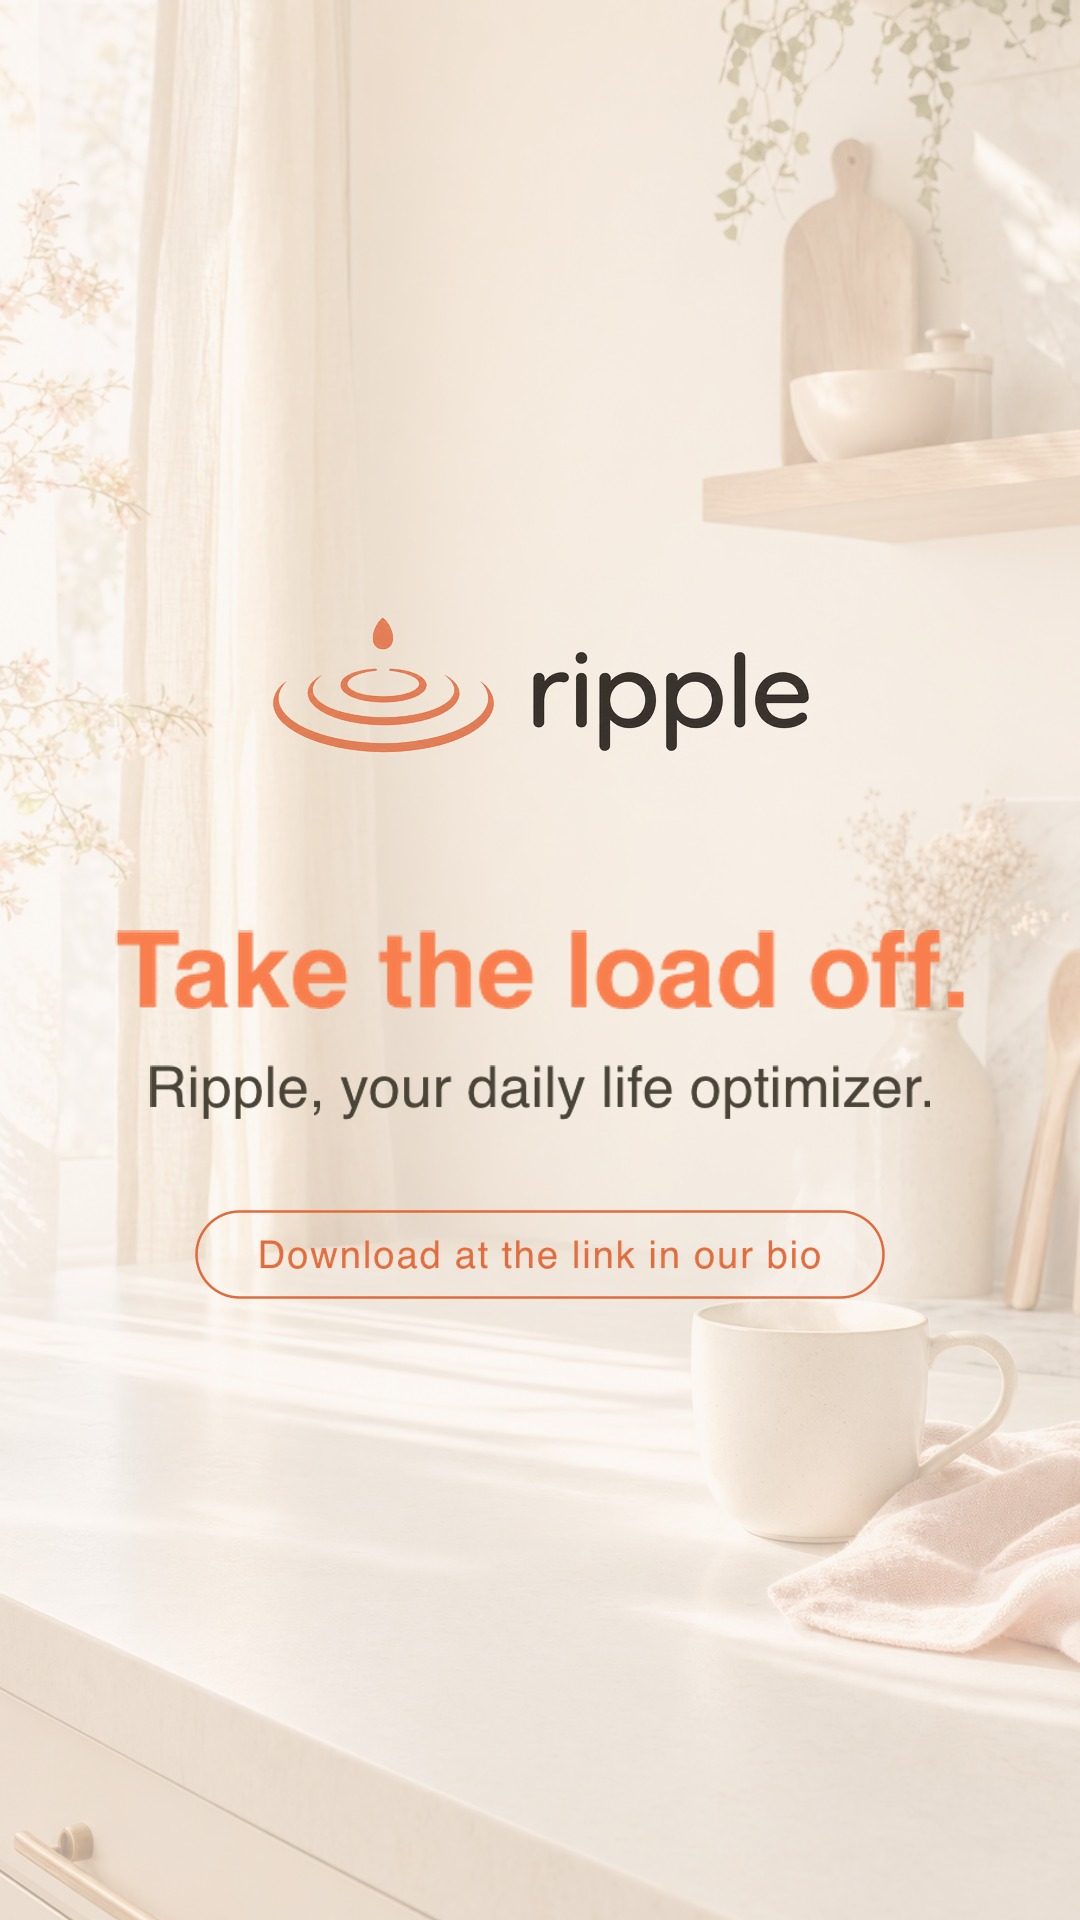
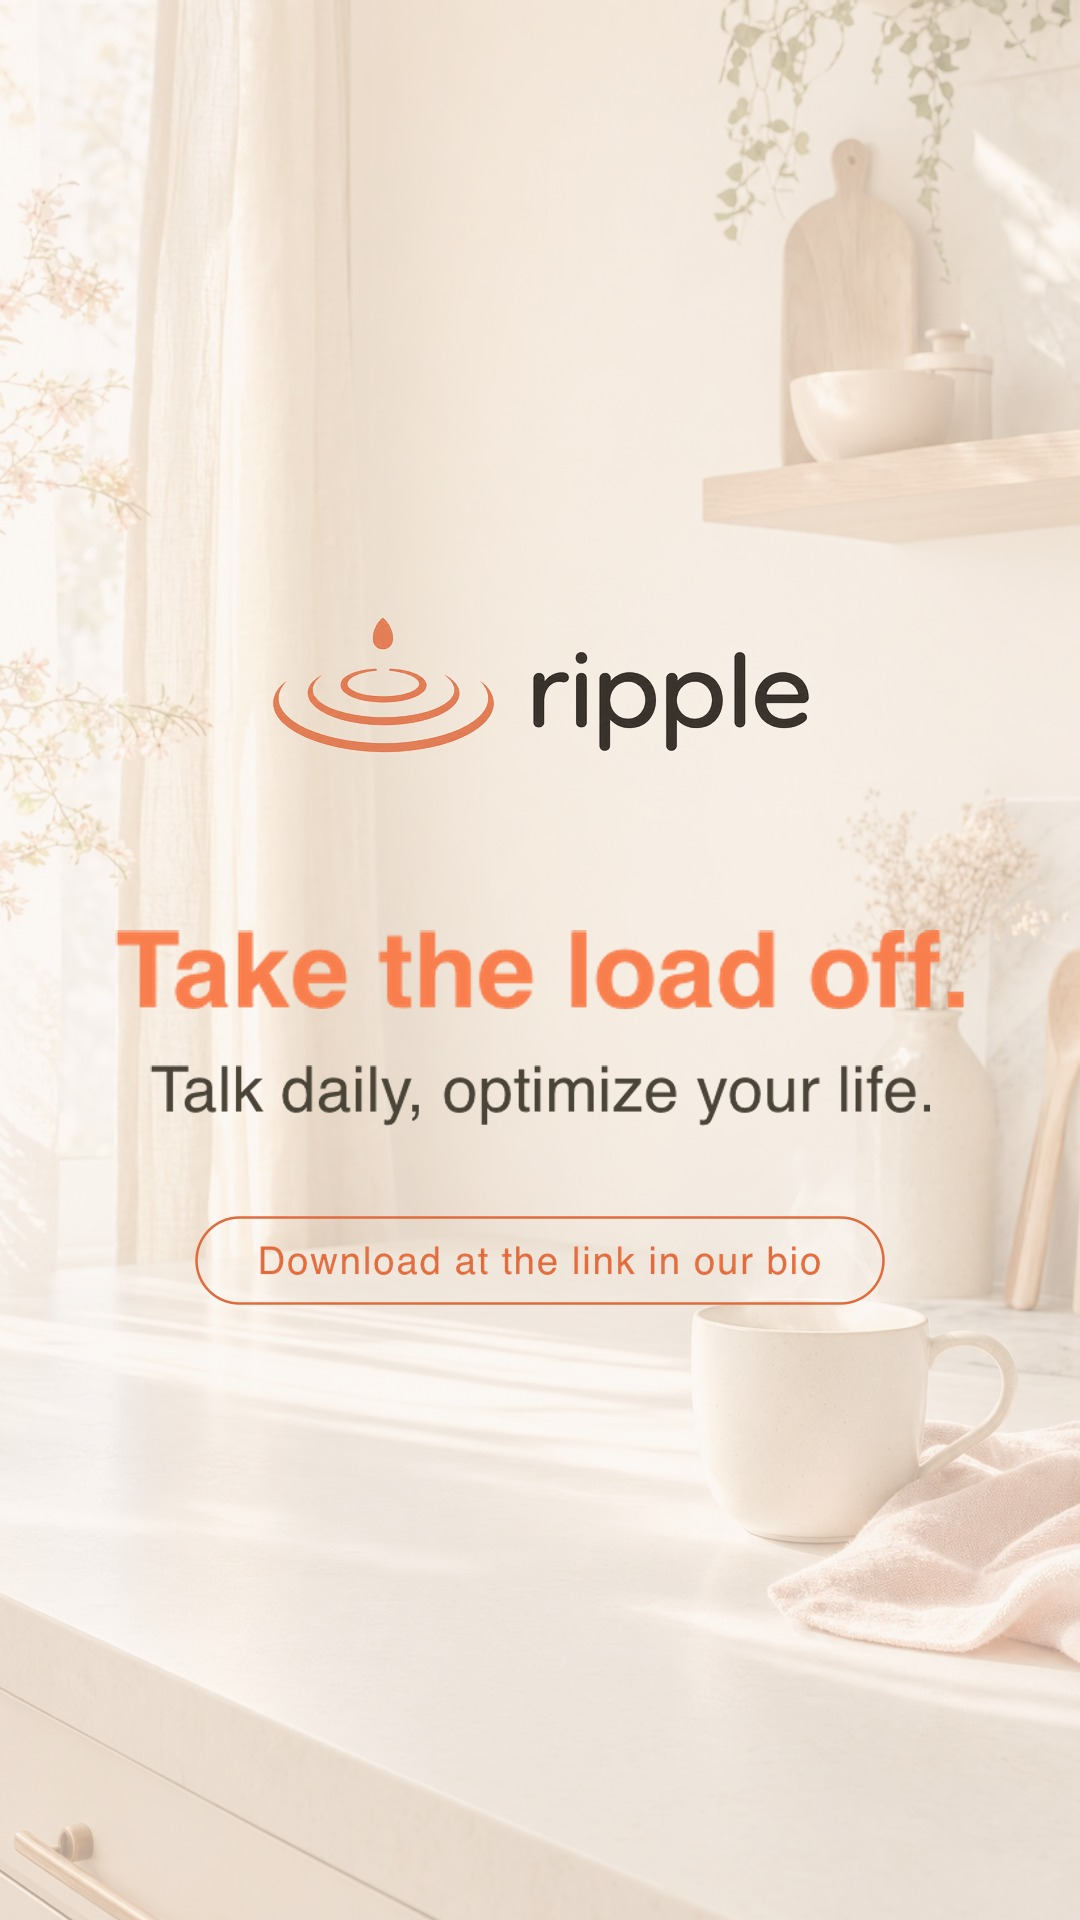
content: Update Ripple CTA slide subtext
Ripple slide subline is now "Talk daily, optimize your life." under "Take the load off." per Keenan.

- apps/web/scripts/make-cta-slides.ts
- apps/web/public/cta-slide-ripple.jpg regenerated

Changed region(s): [[0.1833, 0.625, 0.825, 0.6875], [0.1222, 0.5312, 0.8556, 0.5938]]

diff --git a/apps/web/scripts/make-cta-slides.ts b/apps/web/scripts/make-cta-slides.ts
@@ -304,7 +304,7 @@ async function main() {
     logo: await colorLogoAlpha("ripple-lockup-cream.png", 660, "#FAF4EF"),
     headline: "Take the load off.",
     headlineColor: CORAL,
-    subline: "Ripple, your daily life optimizer.",
+    subline: "Talk daily, optimize your life.",
     sublineColor: "#4A4438",
     pillText: "Download at the link in our bio",
     pillColor: "#E06A3C",
